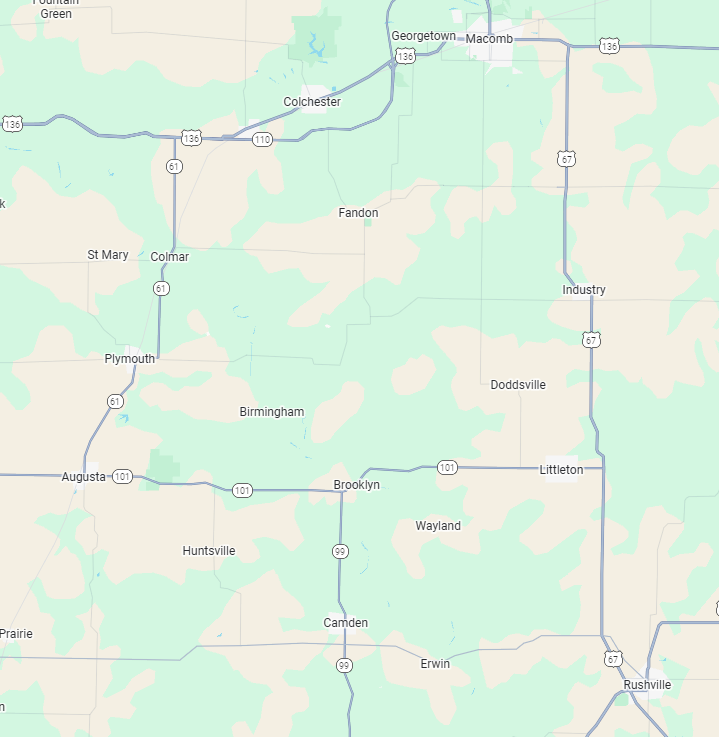
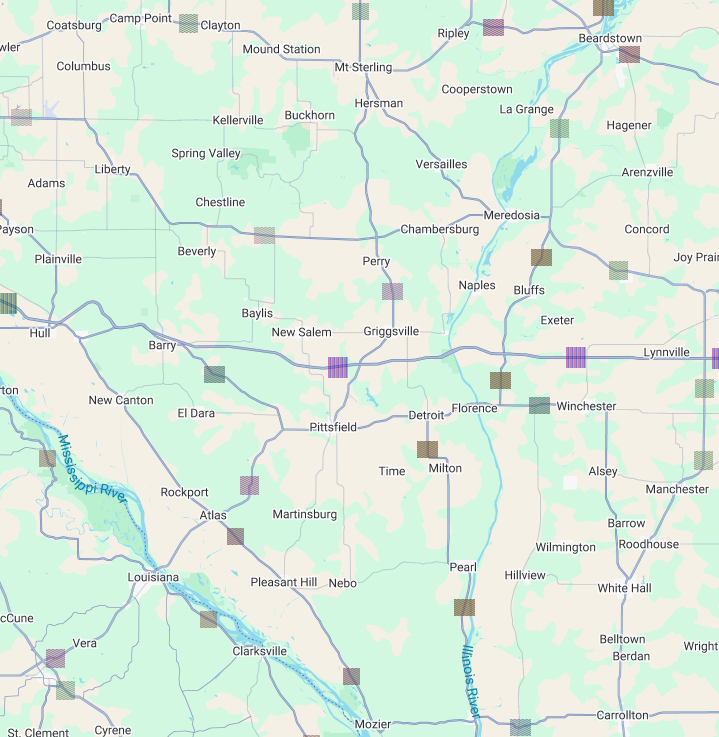
Update header and contact section images, add lightbox functionality for service area map
- Replaced SVG map preview with a PNG image in `header.tsx`.
- Introduced a lightbox feature in `contact.tsx` for displaying the service area map.
- Enhanced the contact section with a hover overlay effect on the service area image.
- Updated service area image to a new PNG format for better visual quality.

diff --git a/components/sections/contact.tsx b/components/sections/contact.tsx
@@ -12,6 +12,9 @@ import { Textarea } from "@/components/ui/textarea"
 import { Label } from "@/components/ui/label"
 
 import { formatPhoneNumber } from "@/lib/utils"
+import { Lightbox } from "@/components/lightbox"
+import { GalleryItem } from "@/lib/data/gallery"
+import { ZoomIn } from "lucide-react"
 
 const TURNSTILE_SITE_KEY = process.env.NEXT_PUBLIC_TURNSTILE_SITE_KEY
 
@@ -67,6 +70,16 @@ export function ContactSection() {
     service: "",
     message: "",
   })
+  const [mapLightboxOpen, setMapLightboxOpen] = React.useState(false)
+
+  // Service area map as a gallery item for the lightbox
+  const serviceAreaMapItem: GalleryItem = {
+    id: 1,
+    title: "Service Area Map",
+    category: "Map",
+    image: "/branding/service-area.png",
+    description: `${companyInfo.name} service area`
+  }
 
   const renderTurnstile = React.useCallback(() => {
     if (
@@ -247,7 +260,8 @@ export function ContactSection() {
               initial={{ opacity: 0, y: 20 }}
               animate={isInView ? { opacity: 1, y: 0 } : {}}
               transition={{ duration: 0.5, delay: 0.8 }}
-              className="mt-8 aspect-video rounded-2xl overflow-hidden relative shadow-lg border border-primary"
+              className="mt-8 aspect-video rounded-2xl overflow-hidden relative shadow-lg border border-primary cursor-pointer group"
+              onClick={() => setMapLightboxOpen(true)}
             >
               <Image
                 src="/branding/service-area.png"
@@ -256,8 +270,14 @@ export function ContactSection() {
                 className="object-fill"
                 sizes="(max-width: 1024px) 100vw, 40vw"
               />
+              {/* Hover Overlay */}
+              <div className="absolute inset-0 bg-primary/0 group-hover:bg-primary/20 transition-all duration-300 flex items-center justify-center">
+                <div className="w-14 h-14 rounded-full backdrop-blur-md bg-black/20 border border-primary flex items-center justify-center opacity-0 group-hover:opacity-100 transition-opacity duration-300">
+                  <ZoomIn className="w-7 h-7 text-white" />
+                </div>
+              </div>
               {/* Overlay with service area label */}
-              <div className="absolute inset-0 flex items-end justify-center pb-4">
+              <div className="absolute inset-0 flex items-end justify-center pb-4 pointer-events-none">
                 <p className="text-sm text-muted-foreground px-4 text-center">Serving Pittsfield, And the surrounding area.</p>
               </div>
             </motion.div>
@@ -416,6 +436,17 @@ export function ContactSection() {
           </motion.div>
         </div>
       </div>
+
+      {/* Service Area Map Lightbox */}
+      <Lightbox
+        images={[serviceAreaMapItem]}
+        selectedImage={mapLightboxOpen ? serviceAreaMapItem : null}
+        onClose={() => setMapLightboxOpen(false)}
+        onPrev={() => {}}
+        onNext={() => {}}
+        currentIndex={0}
+        totalImages={1}
+      />
     </section>
   )
 }

diff --git a/components/header.tsx b/components/header.tsx
@@ -345,7 +345,7 @@ export function Header() {
                         {/* Map Preview */}
                         <div className="aspect-video rounded-xl bg-primary/5 border border-border overflow-hidden relative mb-3">
                           <Image
-                            src="/map-preview.svg"
+                            src="/branding/map-preview.png"
                             alt={`Map showing ${companyInfo.name} location`}
                             fill
                             className="object-cover"
